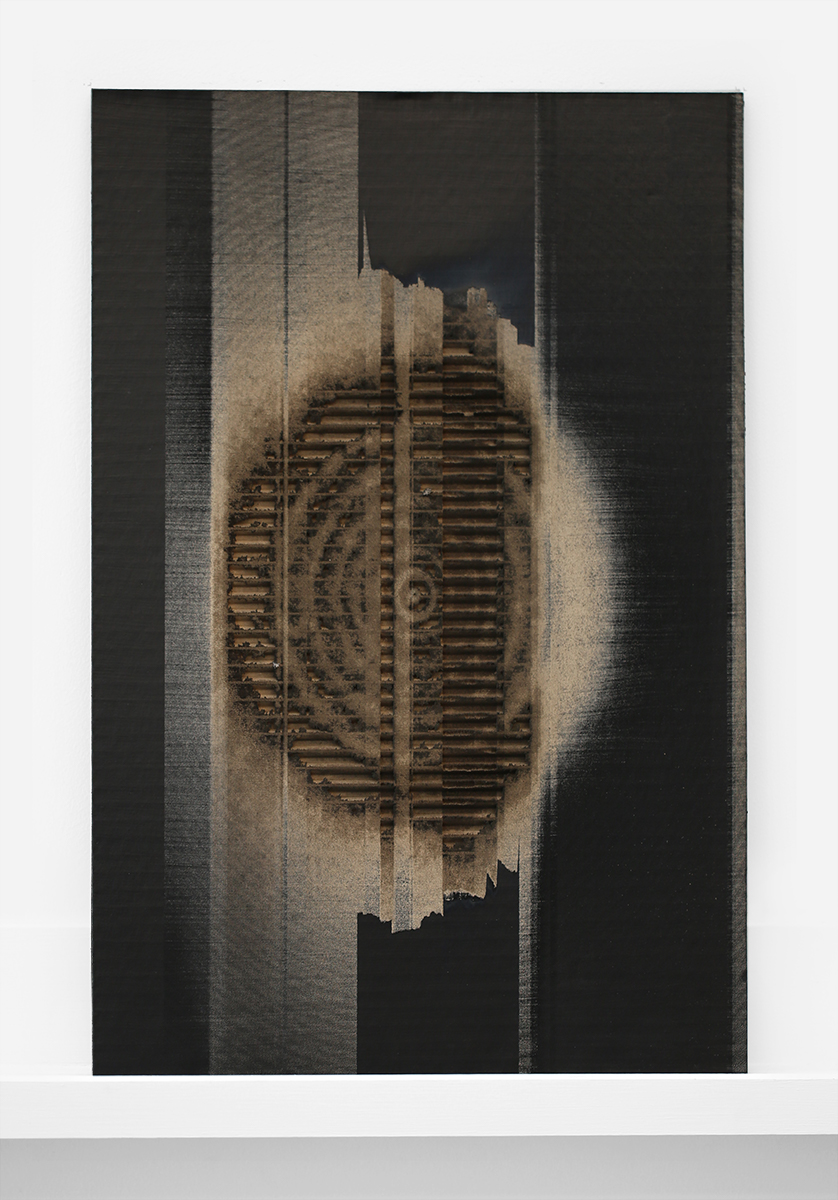
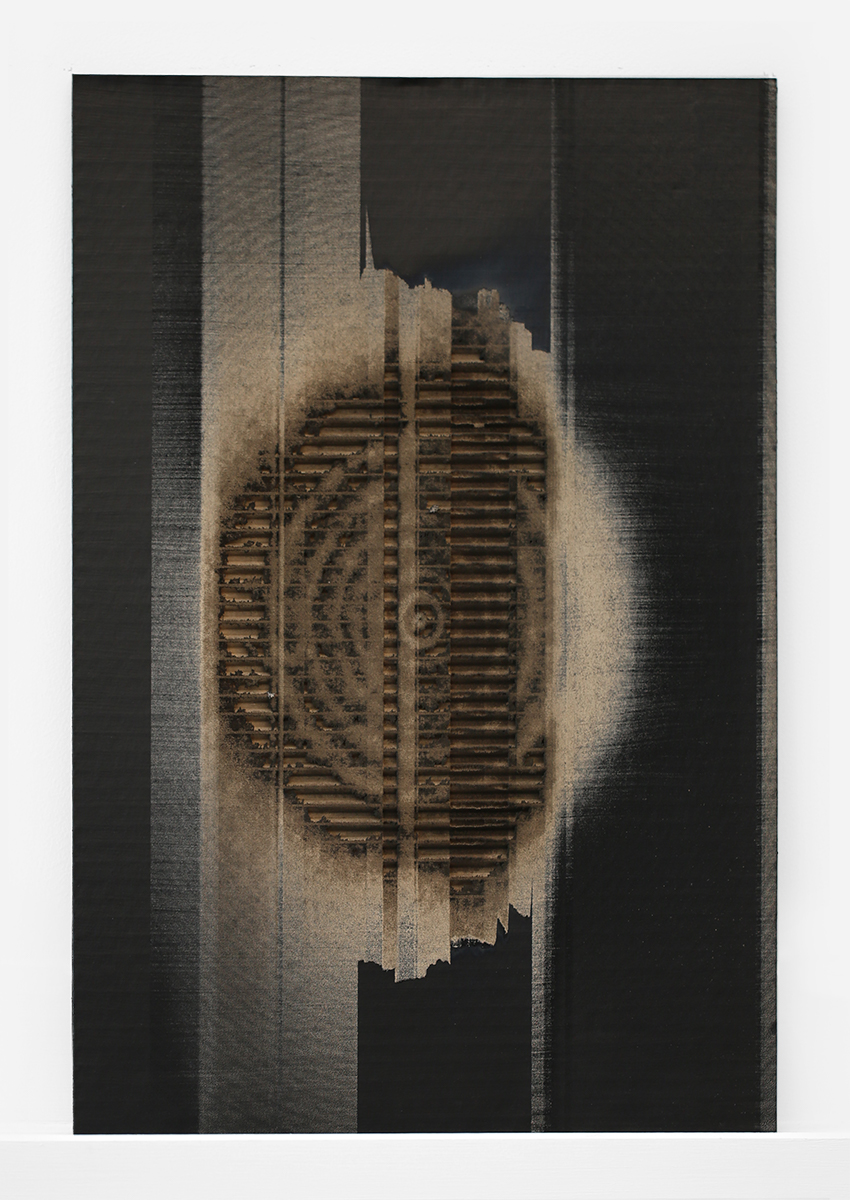
cropped flower images

diff --git a/_posts/projects/2018-07-13-electric-field-flower.md b/_posts/projects/2018-07-13-electric-field-flower.md
@@ -5,22 +5,15 @@ year: 2018
 categories: projects
 
 homepage: true
-image: flowers/Electric-field-of-a-flower-FLP-2018-sm.png 
-width: 500px
+image: flowers/Electric-field-of-a-flower.png 
+width: 600px
 
 slideshow:
 
- - image: flowers/01-fci3.jpg
+ - image: flowers/01-fci.jpg
  - image: flowers/02-fci.jpg
  - image: flowers/03-fci.jpg
- - image: flowers/06-edi.jpg
- - image: flowers/07-edir.jpg
- - image: flowers/08-edir.jpg
- - image: flowers/09-edir.jpg
- - image: flowers/10-edip.jpg
- - image: flowers/11-ediu.jpg
- - image: flowers/12-ediu.jpg 
- - image: flowers/Electric-field-of-a-flower-FLP-2018-sm.png
+ - image: flowers/Electric-field-of-a-flower.png
  
 ---
 
